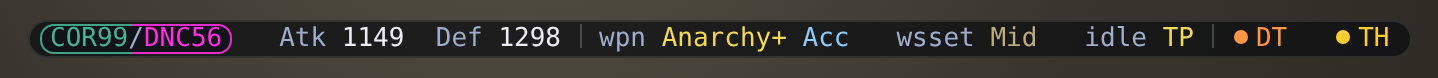
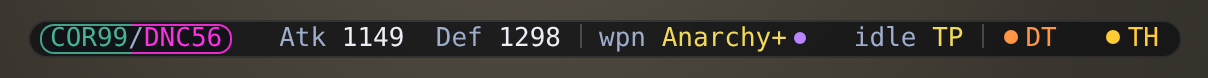
/gcbar: wpn shows melee mode, /wsset high, /hoxne like the HUD (#75)
* /ejenter /ejexit: Einherjar through Bellhop

/ejenter trades your lamp to the targeted Entry Gate with Bellhop's
tradenpc (a Smoldering Lamp reserves the chamber, else a Glowing Lamp
enters); the gate's menu stays manual. /ejexit is /bh drop "Glowing
Lamp". Both say so when the Bellhop plugin isn't loaded (Ashita only).
COMMANDS: the hand-out step (/bh tradeplayer + /bh whitelist).

Claude-Session: https://claude.ai/code/session_01GjFPLzfJPpNNSrzg4WuDgg

* /ejenter /ejexit: native Ashita Einherjar (Valkyrie's gate exchange), no Bellhop

/ejenter <chamber> reserves with the Smoldering Lamp, /ejenter enters the
Glowing Lamp's chamber, /ejexit drops the Glowing Lamp. Packet sequence and
chamber data follow Tny5989's Valkyrie; layouts from XiPackets.

Claude-Session: https://claude.ai/code/session_01GjFPLzfJPpNNSrzg4WuDgg

* Einherjar: copy the Glowing Lamp and trade one to each party member

After a reservation (or /ejlamps) the reserver uses the Glowing Lamp until there
is one per party member within 6 yalms, then trades each one over. Boxes running
GoomSwap in Hazhalm accept a party member's trade and confirm it when everything
offered is a Glowing Lamp. Trade packets per XiPackets / Windower fields.lua,
receiver handshake as Ivaar's Trade addon.

Claude-Session: https://claude.ai/code/session_01GjFPLzfJPpNNSrzg4WuDgg

* Einherjar lamps: accept a trade after 1s, as Alexandria does

Leaves a trade you, Bellhop or Alexandria already accepted alone.
[…]

diff --git a/README.md b/README.md
@@ -283,7 +283,7 @@ This box only. `/gcbar`, `/gcbar pos X Y` or drag (saved per character); `Displa
 - **Job**, `Atk` and `Def` | **modes that are set** | **toggles that are on** as dots.
 - Each of the 22 jobs its own colour, outlined: main job's half in its colour, sub job's in its. Dropped within 8px of the screen's
   top, the bar snaps flush to it.
-- `wpn`: `+` = slot pick changed; tag = `/mmode` (`Acc`, `SB`); teal = `/hoxne`. `idle`: `MP` `HP` `TP`.
+- `wpn` as the HUD's: `+` slot pick, colour `/mmode`, purple dot `/wsset high`, blue dot `/hoxne`. `idle`: `MP` `HP` `TP`.
 - Dots: DT orange, MDT blue, Aminon purple, SIR blue, TH gold, Kite green, Burst pink, PROC red, Harp teal.
 - Grows with what it shows. Windower: `|` and coloured names, no capsule or dots.
 
